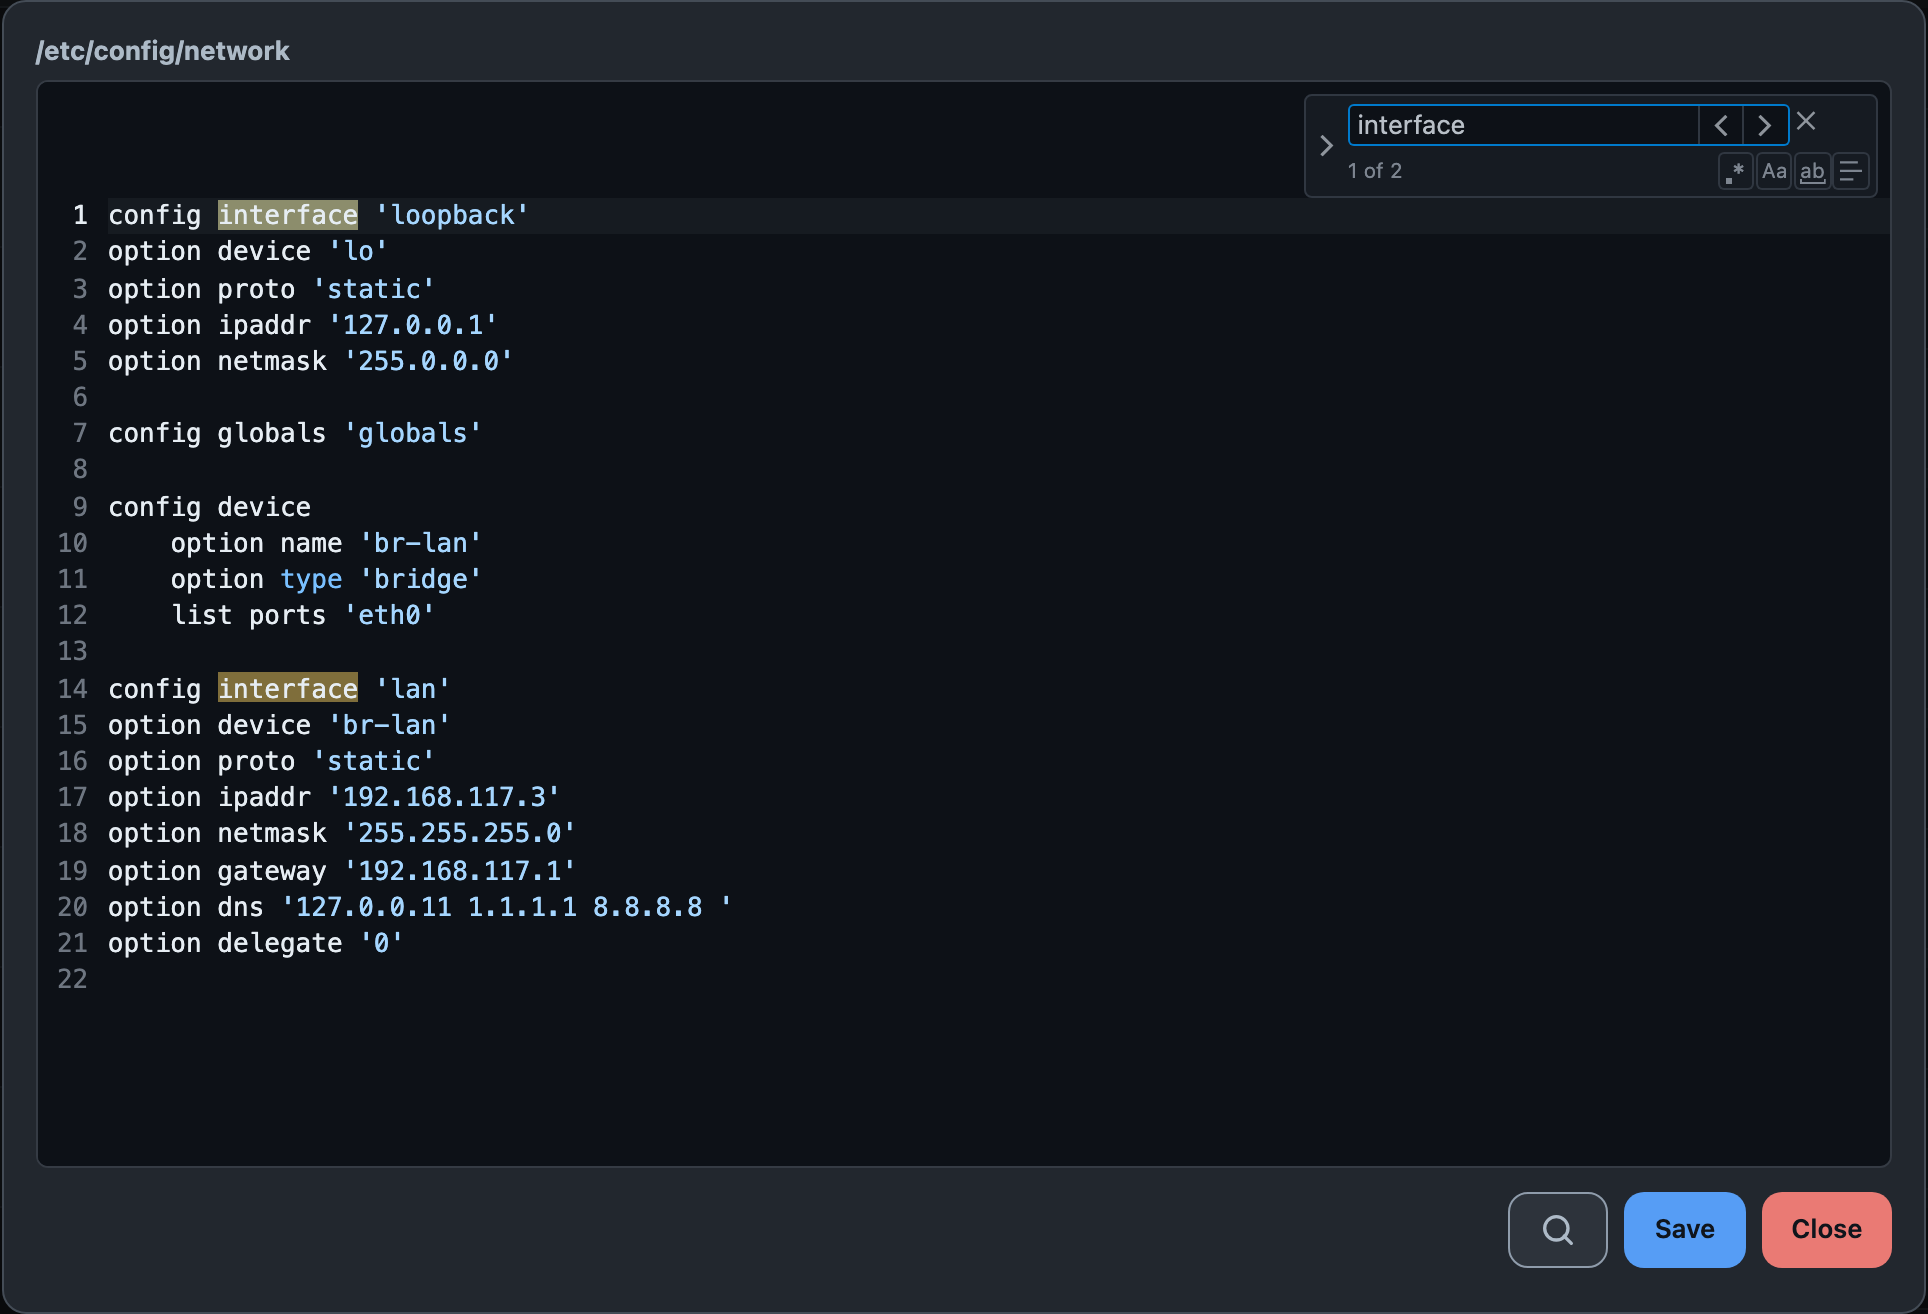
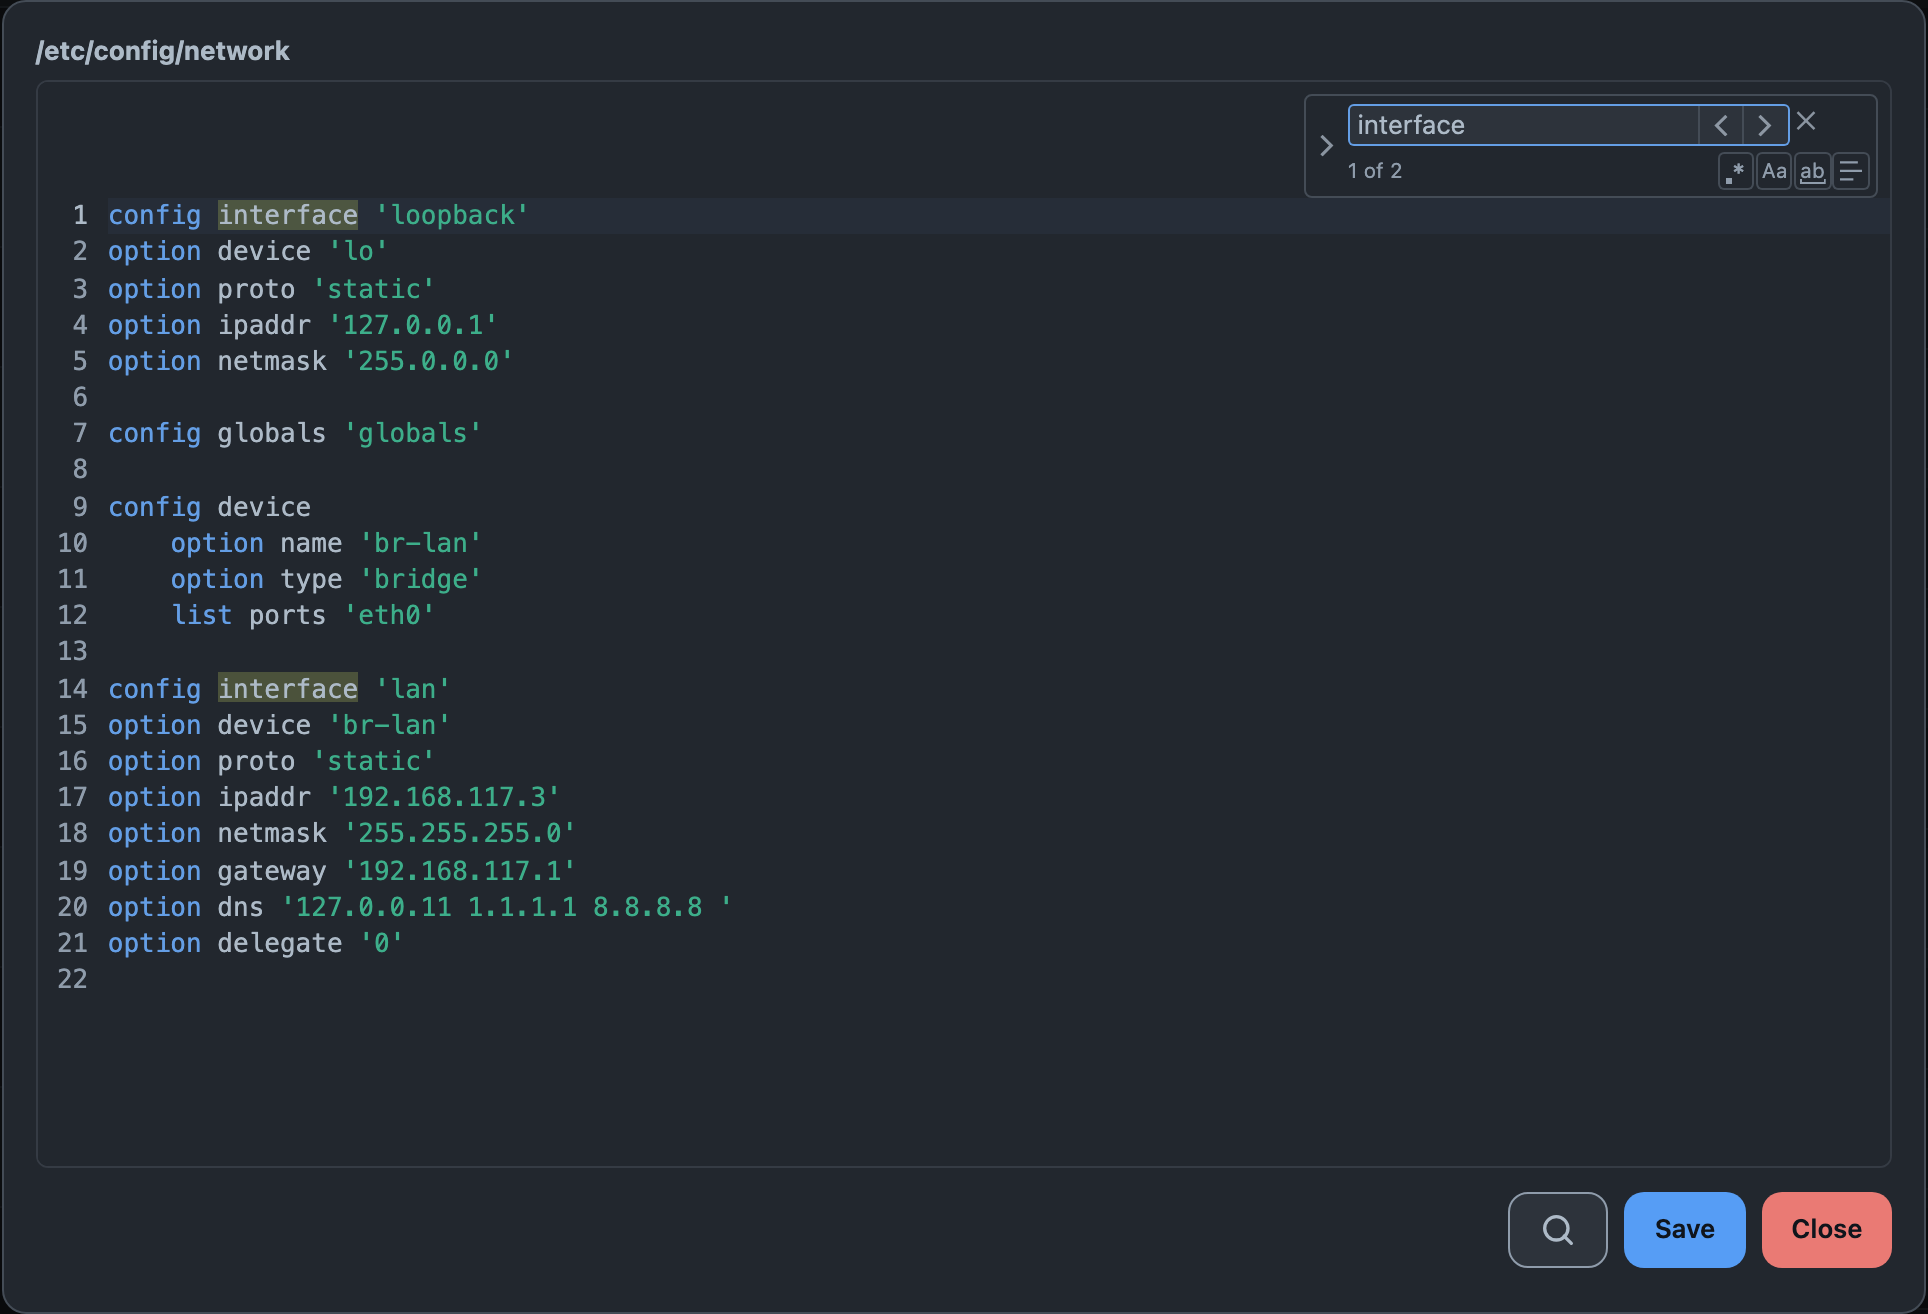
docs: the editor section is about our grammar and our colours now
The README described a vendored editor with four vendored grammars and
uci highlighted as shell, and said a uci grammar was "a later change".
It is not later any more. The screenshots are retaken off the stand, so
the editor picture shows the grammar it now ships with.

diff --git a/README.md b/README.md
@@ -21,7 +21,7 @@ package's own `.fsf-*` classes, unlayered and without one `!important`.
 <details>
 <summary>The editor, with find-and-replace open</summary>
 
-<img src="assets/readme/editor-dark.png" width="100%" alt="/etc/config/network open in the editor: line numbers, uci highlighted as shell with quoted values in blue, both matches for &quot;interface&quot; picked out, and the search widget in the corner reading 1 of 2. The magnifier, Save and Close sit in a row under the editor.">
+<img src="assets/readme/editor-dark.png" width="100%" alt="/etc/config/network open in the editor: line numbers, uci highlighted by its own grammar — config, option and list in the theme's accent, the section type and the option name in plain text, quoted values in green — both matches for &quot;interface&quot; picked out, and the search widget in the corner reading 1 of 2. The magnifier, Save and Close sit in a row under the editor.">
 
 </details>
 
@@ -99,21 +99,25 @@ reaches the page as text only: there is no `innerHTML` here, and CI fails the bu
 
 ## The editor
 
-[prism-code-editor](https://github.com/jonpyt/prism-code-editor) (MIT), assembled by hand rather
-than through its ready-made setup: that setup pulls a barrel module which imports **every** grammar
-the project ships — 263 files, measured. Vendored here are the core, four grammars (`bash`, `ini`,
-`json`, `nginx`), find-and-replace and bracket matching — 30 files, of which 22 are fetched when a
-file is opened. The library publishes its dist unminified, so staging runs terser over it as well:
-**89 KB of vendored JS and CSS leaves as 44 KB**, with every module's import and export names
-compared before and after.
+[prism-code-editor](https://github.com/jonpyt/prism-code-editor) (MIT) provides the editor and the
+find-and-replace widget, and nothing else: **17 files, 28 KB on flash.** What it does not provide
+any more is the colours or the grammars.
 
-`/etc/config/*` is highlighted as shell rather than as INI, and that is not a shortcut: Prism's INI
-grammar wants `key=value` and `[section]`, while uci writes `config interface 'lan'`. Measured on a
-120-line `/etc/config/network`, the INI grammar tokenised nine things. A uci grammar of its own is a
-later change.
+**uci has a grammar of its own** (`grammars.js`, 1 KB). It used to be highlighted as shell — the
+closest thing the library shipped, and still wrong, because `config interface 'lan'` has no keywords
+in bash and a config file came out as bare words with quoted strings. Prism's own INI grammar was
+worse: measured on a 120-line `/etc/config/network`, it tokenised nine things. The shell grammar
+beside it replaces the library's 5.7 KB `bash`, which described here-documents and process
+substitution for files that contain neither.
 
-The editor's stylesheets live in its shadow root, so nothing this page loads can reach the rest of
-the document — the property that ruled out the alternatives.
+**The colours come from the theme, not from GitHub** (`editor.css`). The library ships a light and a
+dark sheet of literals and expects the page to swap them; this is one file on the 26 export-tier
+names every LuCI theme publishes, so the editor follows the page into dark mode with nothing to
+choose and no second stylesheet — the contract in
+[the theme's app guide](https://github.com/VizzleTF/luci-theme-footstrap/blob/main/docs/luci-app-styling-guide.md).
+
+The editor's stylesheets live inside the view's own tree, so nothing this page loads can reach the
+rest of the document — the property that ruled out the alternatives.
 
 ## Building
 
@@ -126,9 +130,9 @@ owfeed build                               # dist/noarch/*.apk (25.12) + dist/al
 ```
 
 Staging minifies what ships: terser over the view's own modules and `tools/minify-css.sh` over the
-stylesheet, and terser again over the vendored editor as ES modules. The whole payload goes from
-125,374 bytes to 81,441 — the page's own three files from 96,934 to 35,804, the editor's 25 modules
-from 74,142 to 30,219. Nothing in the checkout is rewritten.
+stylesheets, and terser again over the vendored editor as ES modules — every module's import and
+export names compared before and after, because 17 files import each other by name. The whole
+payload goes from 110,255 bytes to 68,534. Nothing in the checkout is rewritten.
 
 An OpenWrt SDK build works too — the `Makefile` is an ordinary `luci.mk` package, and there jsmin
 does the minifying because a buildbot has no node — but nothing released here comes from one: this

diff --git a/CLAUDE.md b/CLAUDE.md
@@ -21,6 +21,8 @@ release is not optional.
 |---|---|
 | `htdocs/luci-static/resources/view/footstrap-files/browser.js` | the page: listing, toolbar, operations, the editor panel |
 | `htdocs/luci-static/resources/view/footstrap-files/editor.js` | the editor, assembled by hand out of prism-code-editor |
+| `htdocs/luci-static/resources/view/footstrap-files/grammars.js` | OUR uci and shell grammars — the library's `bash` was 5.7 KB of the wrong language |
+| `htdocs/luci-static/resources/view/footstrap-files/editor.css` | OUR editor colours, one file for both modes, off the export tier |
 | `htdocs/luci-static/resources/view/footstrap-files/files.css` | unlayered and `.fsf-*`-scoped; colour from the export tier with literal fallbacks, spacing and radius as plain values |
 | `htdocs/luci-static/resources/view/footstrap-files/vendor/pce/` | third-party, vendored verbatim — **not ours to edit**; minified on the way out (see below) |
 | `root/usr/share/luci/menu.d/`, `root/usr/share/rpcd/acl.d/` | the menu node and the grant |
@@ -99,8 +101,24 @@ table markup. The three that cost the most:
 - **E() sets text, never markup.** A file name is data. There is no `innerHTML` on this page and
   there must not be one.
 - **The vendored editor is pruned by reachability**, not by hand: `setups/index.js` pulls a barrel
-  that imports every grammar (263 files, measured). Adding a language means adding
-  `prism/languages/<lang>.js` AND `languages/<lang>.js` and re-running the prune.
+  that imports every grammar (263 files, measured). What is left of it is the editor and the search
+  widget — 17 files. Three things that used to come from it do not any more, and each was measured
+  before it went:
+  - `languages/*.js` (indent and comment rules) wrote into `languageMap`, **which nothing in this
+    build reads** — the reader is `extensions/commands`, which we do not load. Proved on the stand:
+    Enter inside a `{` gave a bare newline and Ctrl+/ did nothing, before and after. 3,970 bytes.
+  - the `bash`, `ini` and `nginx` grammars: `grammars.js` has uci and shell of our own, and uci
+    finally has keywords instead of being lexed as a shell script. 7,132 bytes.
+  - `themes/github-*.css`: `editor.css` is one sheet on the export tier for both modes, so there is
+    no `isDark()` and no swap. 6,492 bytes.
+- **A NEW GRAMMAR GOES IN `grammars.js`**, not into `vendor/`. It is an ordered object of regexes —
+  Prism tries them in turn — registered on `prism.languages` when the editor loads. NO LOOKBEHIND:
+  Safari learned it in 16.4 and this package's floor is 15.4, so a name that follows a keyword is
+  one match with an `inside`, never `(?<=…)`.
+- **Editor colours are the THEME's**, from the same 26 export names the rest of the page uses, with
+  a literal fallback on each. Nothing in `editor.css` may read `--fs-*`, and no `--pce-*` name that
+  no vendored sheet reads belongs there — the library understands `--pce-ac-*`, `--pce-tabstop`,
+  `--pce-bg-fold` and more, all of them for extensions this package does not load.
 - **Find is a BUTTON because Ctrl+F is not a gesture a phone has.** The vendored widget opens on
   Ctrl+F, Cmd+F and F3 and on nothing else, so on touch the find-and-replace this package vendors
   could not be reached at all. The magnifier sits left of Save, is a toggle, and calls
@@ -130,7 +148,7 @@ table markup. The three that cost the most:
   on disk against the packages declared for them, in both directions, and runs in T0 and in CI.
 - **The payload is minified on the way out, never in the checkout.** `tools/stage.sh` runs
   `minify-js.mjs` (terser) over the view's own modules and `minify-css.sh` over `files.css`:
-  125,374 bytes of payload become 81,441. The SDK path still uses jsmin, which is what T0 gates, so
+  110,255 bytes of payload become 68,534. The SDK path still uses jsmin, which is what T0 gates, so
   the two paths ship different bytes for one commit on purpose. The step this replaced globbed
   `resources/fs-cmd*.js`, a path copied from the sibling package, matched nothing and skipped
   minification in silence: v0.1.0 shipped the commented sources. CI now compares staged bytes
